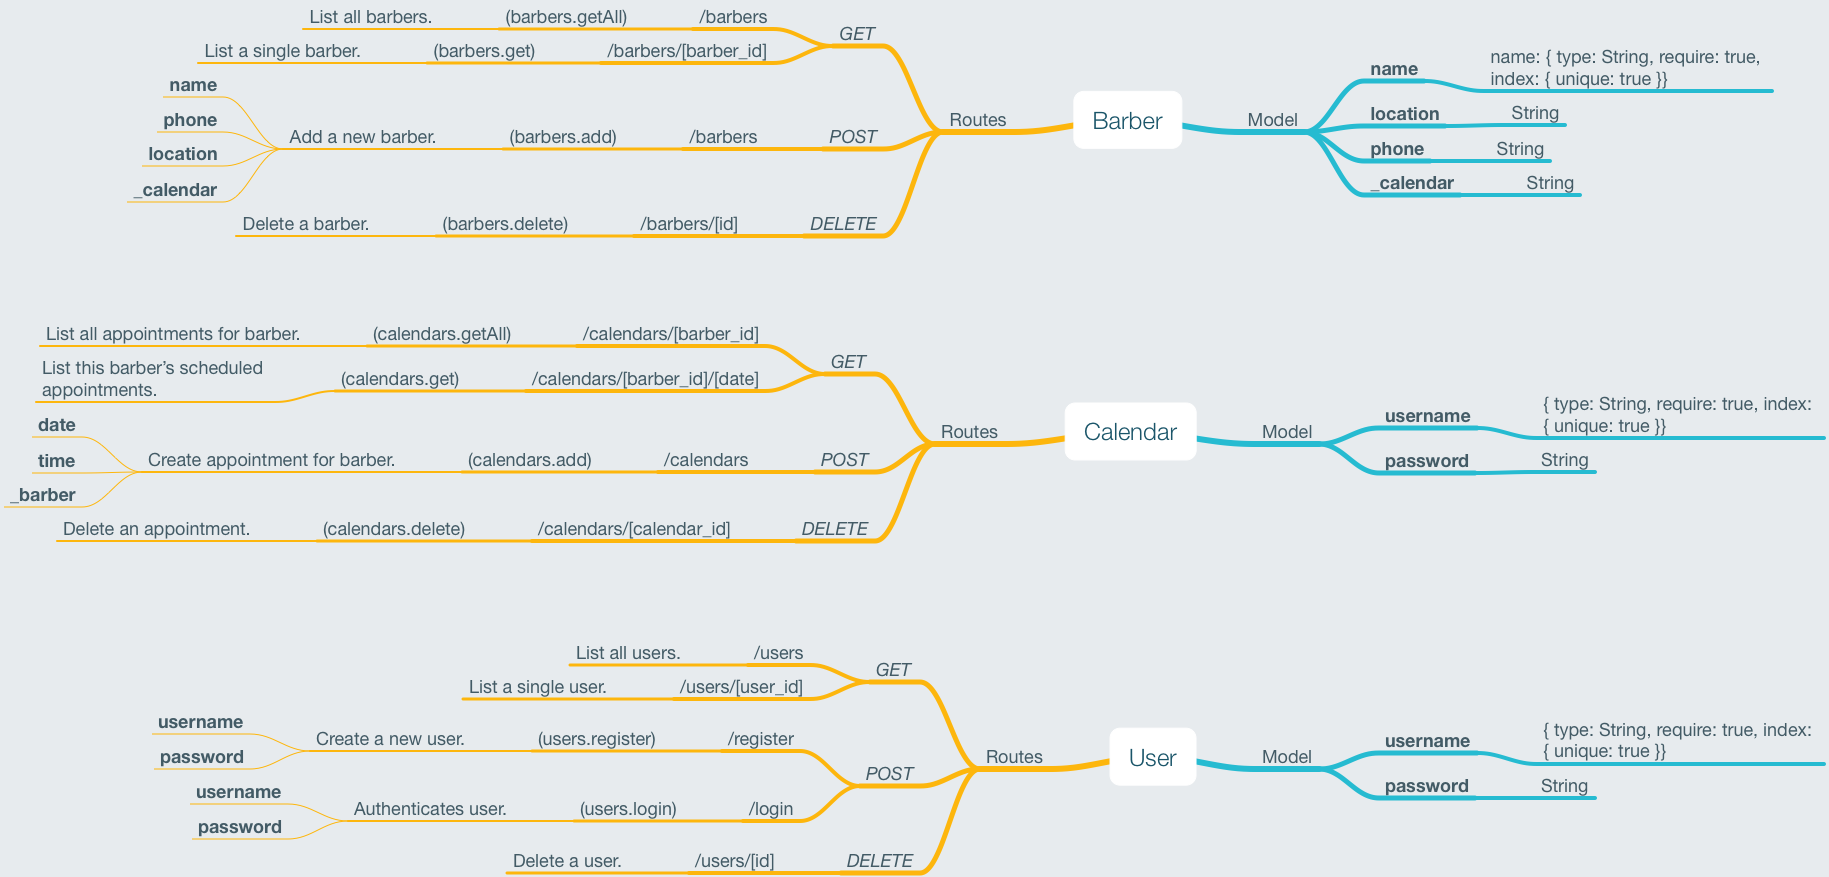
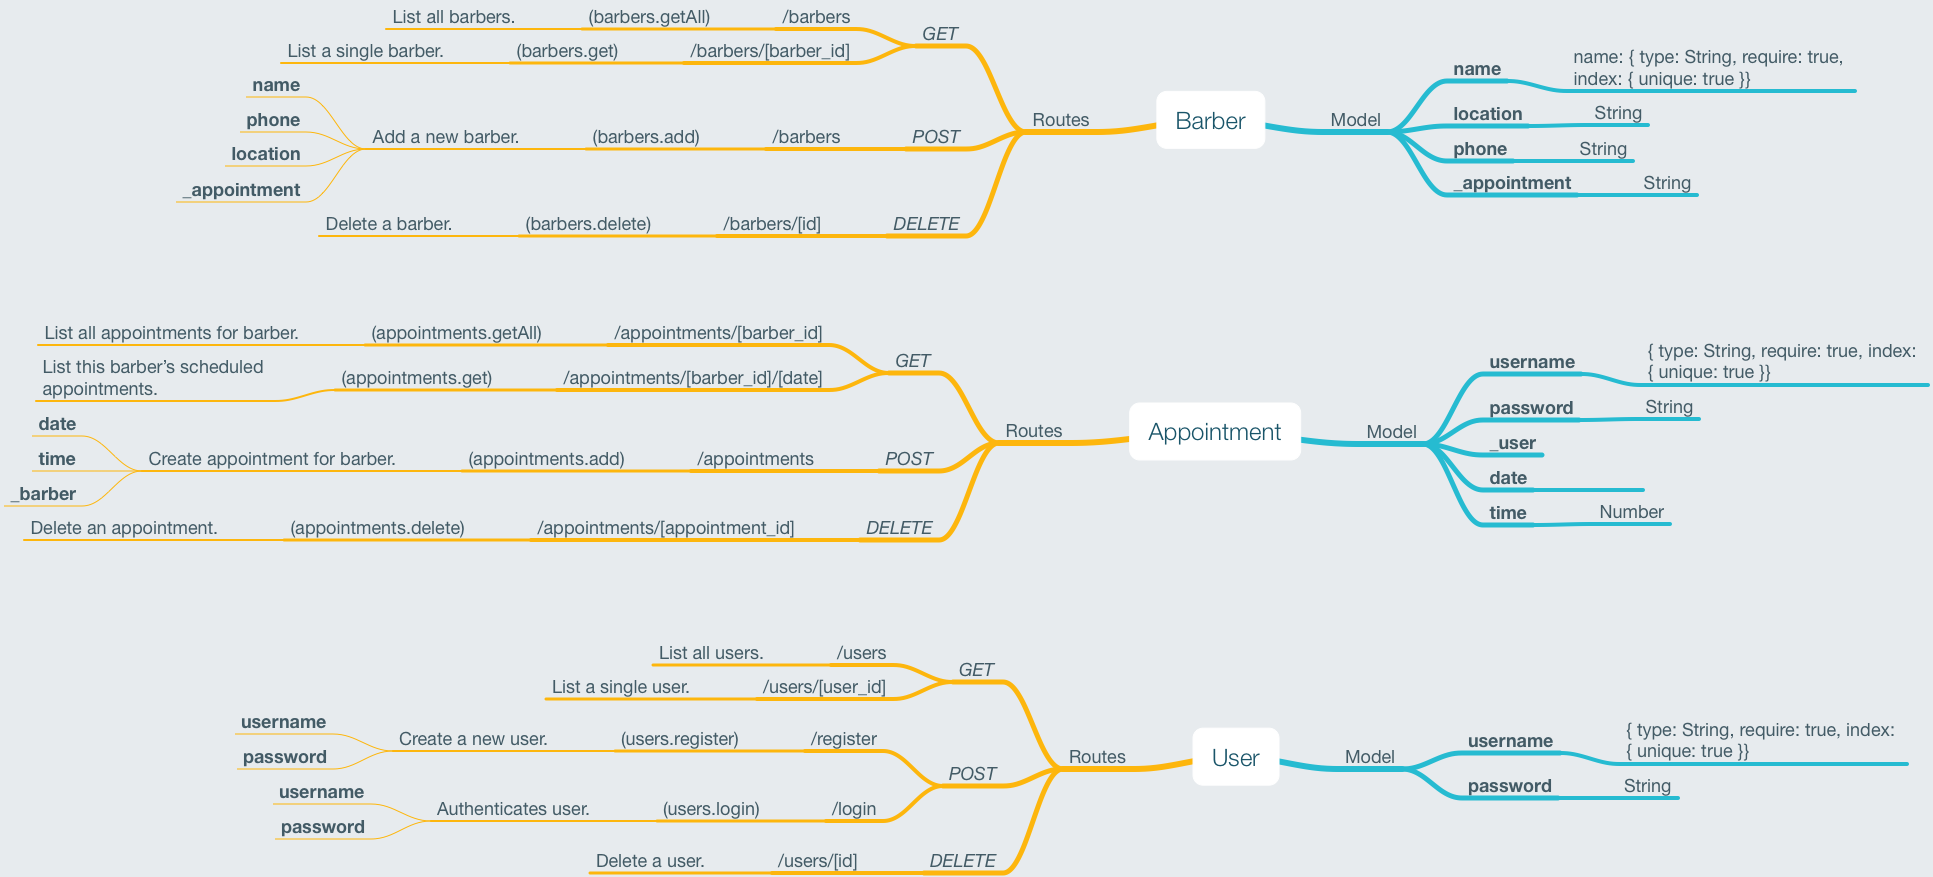
Made further changes to API

diff --git a/server/controllers/Appointments.js b/server/controllers/Appointments.js
@@ -1,8 +1,8 @@
 // Require some packages that we will use
 var mongoose = require('mongoose');
 
-// Make our Calendar model available
-var Calendar = mongoose.model('Calendar');
+// Make our Appointment model available
+var Appointment = mongoose.model('Appointment');
 
 // What is module.exports?
 // By default, JavaScript doesn’t have a way to pass information between
@@ -23,48 +23,47 @@ var Calendar = mongoose.model('Calendar');
 
 module.exports = {
 
-  // Add a new Calendar
+  // Add a new Appointment
   add: function(req,res) {
-    console.log("calendars.add called");
-    var calendar = new Calendar(req.body);
-    calendar.save(function(err) {
+    var appointment = new Appointment(req.body);
+    appointment.save(function(err) {
       if (err) {
         res.status(500).send(err);
       } else {
-        res.status(200).send("Calendar successfully saved.");
+        res.status(200).send("Appointment successfully saved.");
       }
     });
   },
 
-  // Get all Calendars
+  // Get all Appointments
   getAll: function(req, res) {
-    Calendar.find({}).exec(function(err, calendars) {
+    Appointment.find({}).exec(function(err, appointments) {
       if (err) {
         res.status(500).send(err);
       } else {
-        res.json(calendars);
+        res.json(appointments);
       }
     });
   },
 
-  // Get a Calendar
+  // Get a Appointment
   get: function(res, req) {
-    Calendar.update({_id: req.params.id}).exec(function(err, calendar) {
+    Appointment.update({_id: req.params.id}).exec(function(err, appointment) {
       if (err) {
         res.status(500).send(err);
       } else {
-        res.json(calendar);
+        res.json(appointment);
       }
     });
   },
 
-  // Delete a Calendar
+  // Delete a Appointment
   delete: function(req, res) {
-    Calendar.remove({_id: req.params.id}).exec(function(err) {
+    Appointment.remove({_id: req.params.id}).exec(function(err) {
       if (err) {
         res.status(500).send(err);
       } else {
-        res.status(200).send("Calendar successfully deleted.");
+        res.status(200).send("Appointment successfully deleted.");
       }
     });
   }

diff --git a/server/controllers/Users.js b/server/controllers/Users.js
@@ -4,6 +4,8 @@ var mongoose = require('mongoose');
 // Make our User model available
 var User = mongoose.model('User');
 
+var bcrypt = require('bcrypt-nodejs');
+
 // What is module.exports?
 // By default, JavaScript doesn’t have a way to pass information between
 // different files. module.exports is Node’s way of fixing this problem.
@@ -26,8 +28,6 @@ module.exports = {
   // User controller for registering a new user
   // Validations: [form data] password == pw_confirm
   register: function(req, res) {
-    console.log("users.register called");
-    console.log(req.body);
     if (req.body.password != req.body.pw_confirm) {
       // HTTP Status 400: Client Error - Bad Request
       res.sendStatus(400);
@@ -48,20 +48,29 @@ module.exports = {
     }
   },
 
+  // Returns currently logged in user
+  whoami: function(req, res) {
+    if (req.session) {
+      res.send(req.session.user);
+    } else {
+      res.sendStatus(500);
+    }
+  },
+
   // User controller for logging in user
   // Validations: [form data] password == found user password
   login: function(req, res) {
-    console.log("users.login called");
     User.findOne({username: req.body.username}).exec(function(err, user) {
-      if (user.password != req.body.password) {
-        // HTTP Status 400: Client Error - Bad Request
-        res.sendStatus(400);
-      } else {
+      if (bcrypt.compareSync(req.body.password, user.password)) {
         // Hang user property on user
+        console.log('its good');
         req.session.user = user;
 
         // Send user object back in response
         res.send(user);
+      } else {
+        // HTTP Status 400: Client Error - Bad Request
+        res.sendStatus(400);
       }
     });
 

diff --git a/server/config/routes.js b/server/config/routes.js
@@ -1,7 +1,7 @@
 // Require some of the controllers we will use
 var users = require('../controllers/Users.js');
 var barbers = require('../controllers/Barbers.js');
-var calendars = require('../controllers/Calendars.js');
+var appointments = require('../controllers/Appointments.js');
 
 // What is module.exports?
 // By default, JavaScript doesn’t have a way to pass information between
@@ -32,11 +32,11 @@ module.exports = function(app) {
   app.post('/barbers', barbers.add);
   app.delete('/barbers/:barber_id', barbers.delete);
 
-  // This is our routes for Calendars
-  app.get('/calendars/:barber_id', calendars.getAll);
-  app.get('/calendars/:barber_id/:date', calendars.get);
-  app.post('/calendars', calendars.add);
-  app.delete('/calendars/:calendar_id', calendars.delete);
+  // This is our routes for Appointments
+  app.get('/appointments/:barber_id', appointments.getAll);
+  app.get('/appointments/:barber_id/:date', appointments.get);
+  app.post('/appointments', appointments.add);
+  app.delete('/appointments/:appointment_id', appointments.delete);
 
   // This is our routes for Users
   // app.get('/users');
@@ -44,6 +44,7 @@ module.exports = function(app) {
   app.post('/register', users.register);
   app.post('/login', users.login);
   // app.delete('/users/:user_id', users.delete);
+  app.get('/users/whoami', users.whoami);
 
   // These will be our protected routes
   app.use(userAuth);

diff --git a/server/models/User.js b/server/models/User.js
@@ -1,12 +1,30 @@
 // Require some packages that we will use
 var mongoose = require('mongoose');
+var bcrypt = require('bcrypt-nodejs');
 
 // Define our User schema
 // Require username and require unique value
 var UserSchema = new mongoose.Schema({
   username: { type: String, require: true, index: { unique: true }},
-  password: String
+  password: { type: String, required: true }
 }, {timestamps: true});
+
+// hash the password before the user is saved
+UserSchema.pre('save', function(next) {
+  var user = this;
+
+  // hash the password only if the password has been changed or user is new
+  if (!user.isModified('password')) return next();
+
+  // generate the salt
+  bcrypt.hash(user.password, null, null, function(err, hash) {
+    if (err) return next(err);
+
+    // change the password to the hashed version
+    user.password = hash;
+    next();
+  });
+});
 
 // Create our User schema
 mongoose.model('User', UserSchema);

diff --git a/server.js b/server.js
@@ -2,7 +2,8 @@
 var express    = require('express'),
     path       = require('path'),
     bodyParser = require('body-parser'),
-    session    = require('express-session');
+    session    = require('express-session'),
+    morgan     = require('morgan');
 
 // Create variable to contain Session config
 var sessionConfig = {
@@ -33,11 +34,14 @@ require('./server/config/mongoose.js');
   // Allow our app to parse JSON
   app.use(bodyParser.json());
 
+// Configure our Morgan format
+  app.use(morgan('dev'));
+
 // Log res.session with every HTTP request/response
-// app.use(function(req, res, next) {
-//   console.log(req.session);
-//   next();
-// });
+app.use(function(req, res, next) {
+  console.log(req.session);
+  next();
+});
 
 // Set static path with every HTTP request/response
 app.use(express.static(path.join(__dirname, "client", "static")));

diff --git a/server/models/Appointment.js b/server/models/Appointment.js
@@ -1,0 +1,13 @@
+// Require some packages that we will use
+var mongoose = require('mongoose');
+
+// Define our appointment schema
+//
+var AppointmentSchema = new mongoose.Schema({
+  _barber: [{ type: mongoose.Schema.Types.ObjectId, ref: 'Barber' }],
+  date: Date,
+  time: { type: Number, min: 9, max: 17, get: v => Math.round(v), set: v => Math.round(v) }
+}, {timestamps: true});
+
+// Create our appointment schema
+mongoose.model('Appointment', AppointmentSchema);

diff --git a/server/models/Barber.js b/server/models/Barber.js
@@ -5,9 +5,9 @@ var mongoose = require('mongoose');
 //
 var BarberSchema = new mongoose.Schema({
   name: { type: String, require: true, index: { unique: true }},
-  location: String,
+  location: { type: String, require: true },
   phone: String,
-  _calendar: String
+  _appointments: [{ type: mongoose.Schema.Types.ObjectId, ref: 'Appointment' }]
 });
 
 // Create our Barber schema

diff --git a/server/controllers/Barbers.js b/server/controllers/Barbers.js
@@ -25,7 +25,6 @@ module.exports = {
 
   // Add a new Barber
   add: function(req,res) {
-    console.log("barbers.add called");
     var barber = new Barber(req.body);
     barber.save(function(err) {
       if (err) {
